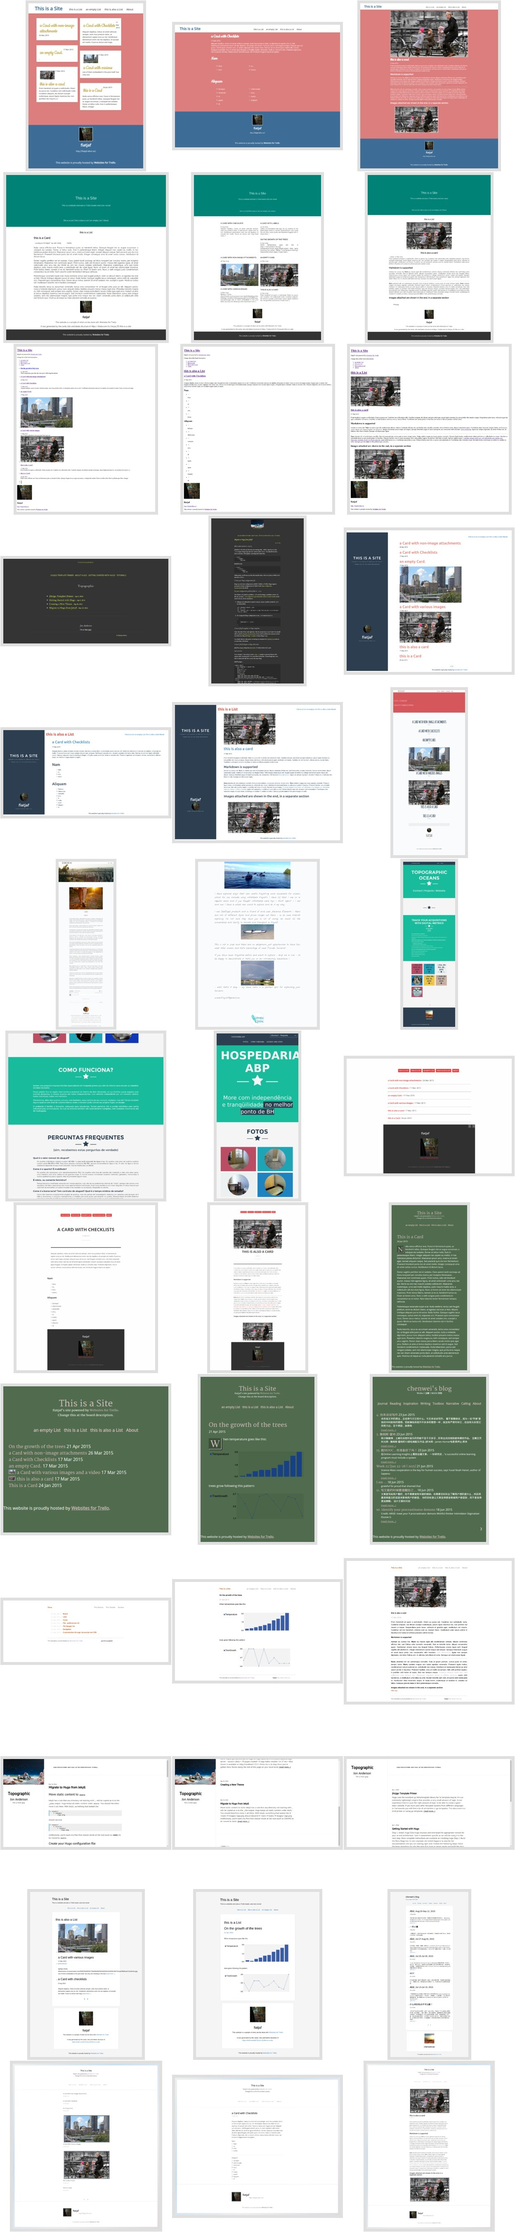
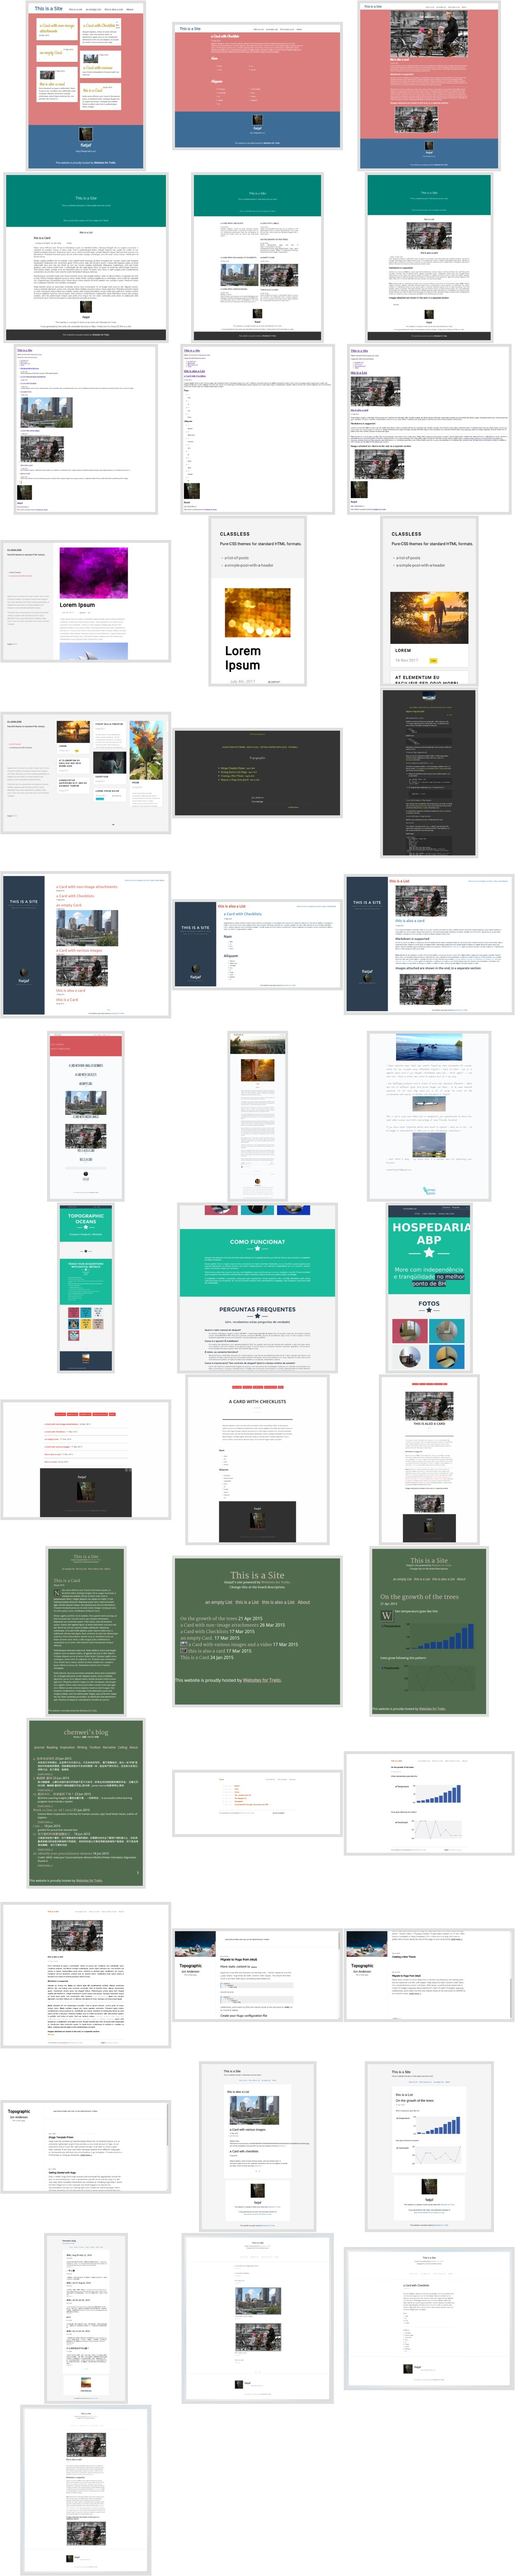
generate readmes and montage.

diff --git a/themes/README.md b/themes/README.md
@@ -4,6 +4,7 @@
 * [barbieri](barbieri/) - A theme with a big hero unit. Good for simple text-only landing pages.
 * [base-3-column](base-3-column/) - This is a not a theme. This is just a CSS base to serve as guide to -- or to be directly included in -- themes that may want to create a three-column design on Classless.
 * [blank](blank/) - No CSS at all.
+* [creative-portfolio](creative-portfolio/) - Creative portfolio is a clean and elegant template originally intended to showcase artists and designers portfolios, but can be easily used in normal websites.
 * [cyprio](cyprio/) - A theme for sites generated with magical ferrets, unhealthy amounts of coffee.
 * [dbyll](dbyll/) - A multipurpose theme with a fixed sidebar.
 * [festively](festively/) - A happy theme that goes well with big header pictures.
